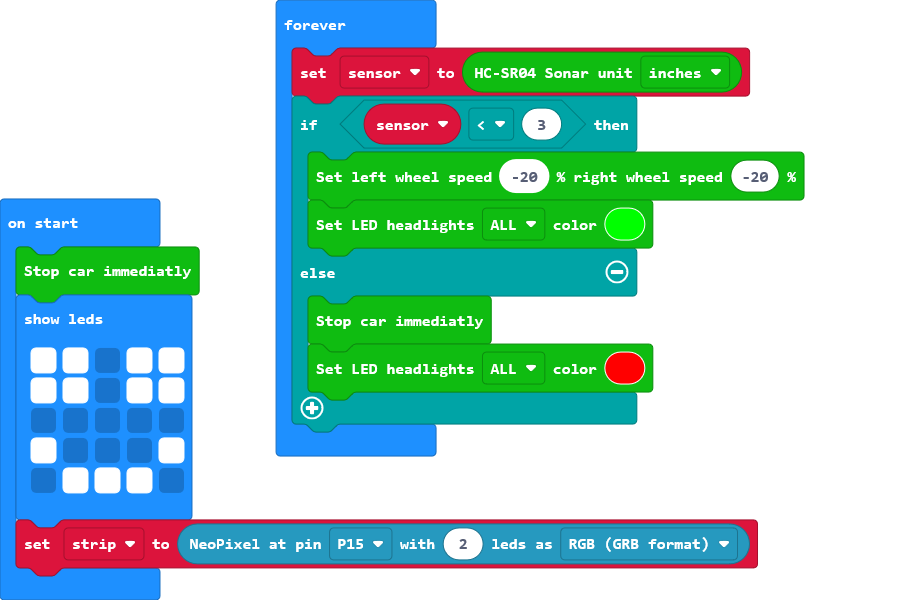
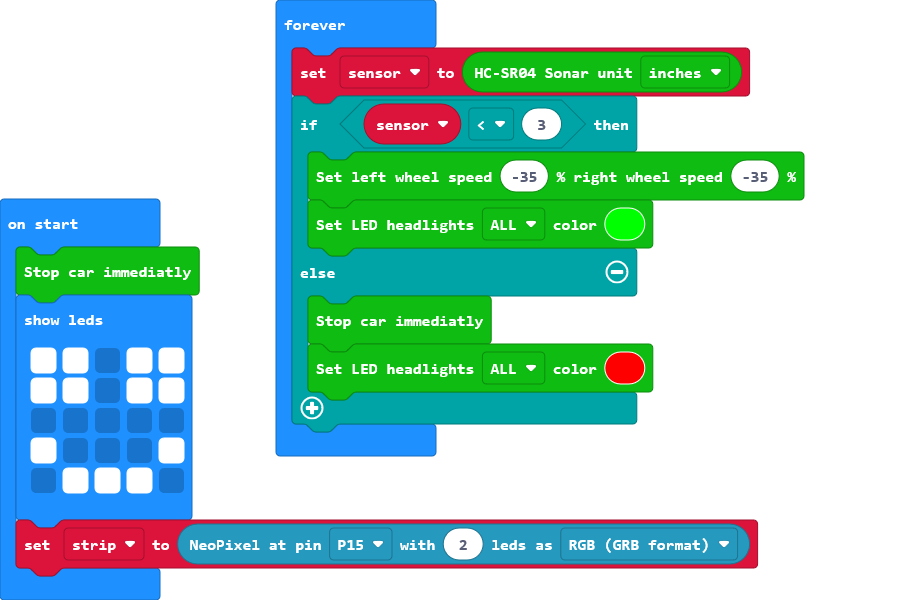
Update main.blocks, main.ts

diff --git a/main.ts b/main.ts
@@ -11,7 +11,7 @@ let strip = neopixel.create(DigitalPin.P15, 2, NeoPixelMode.RGB)
 basic.forever(function () {
     sensor = cuteBot.ultrasonic(cuteBot.SonarUnit.Inches)
     if (sensor < 3) {
-        cuteBot.motors(-20, -20)
+        cuteBot.motors(-35, -35)
         cuteBot.colorLight(cuteBot.RGBLights.ALL, 0x00ff00)
     } else {
         cuteBot.stopcar()
